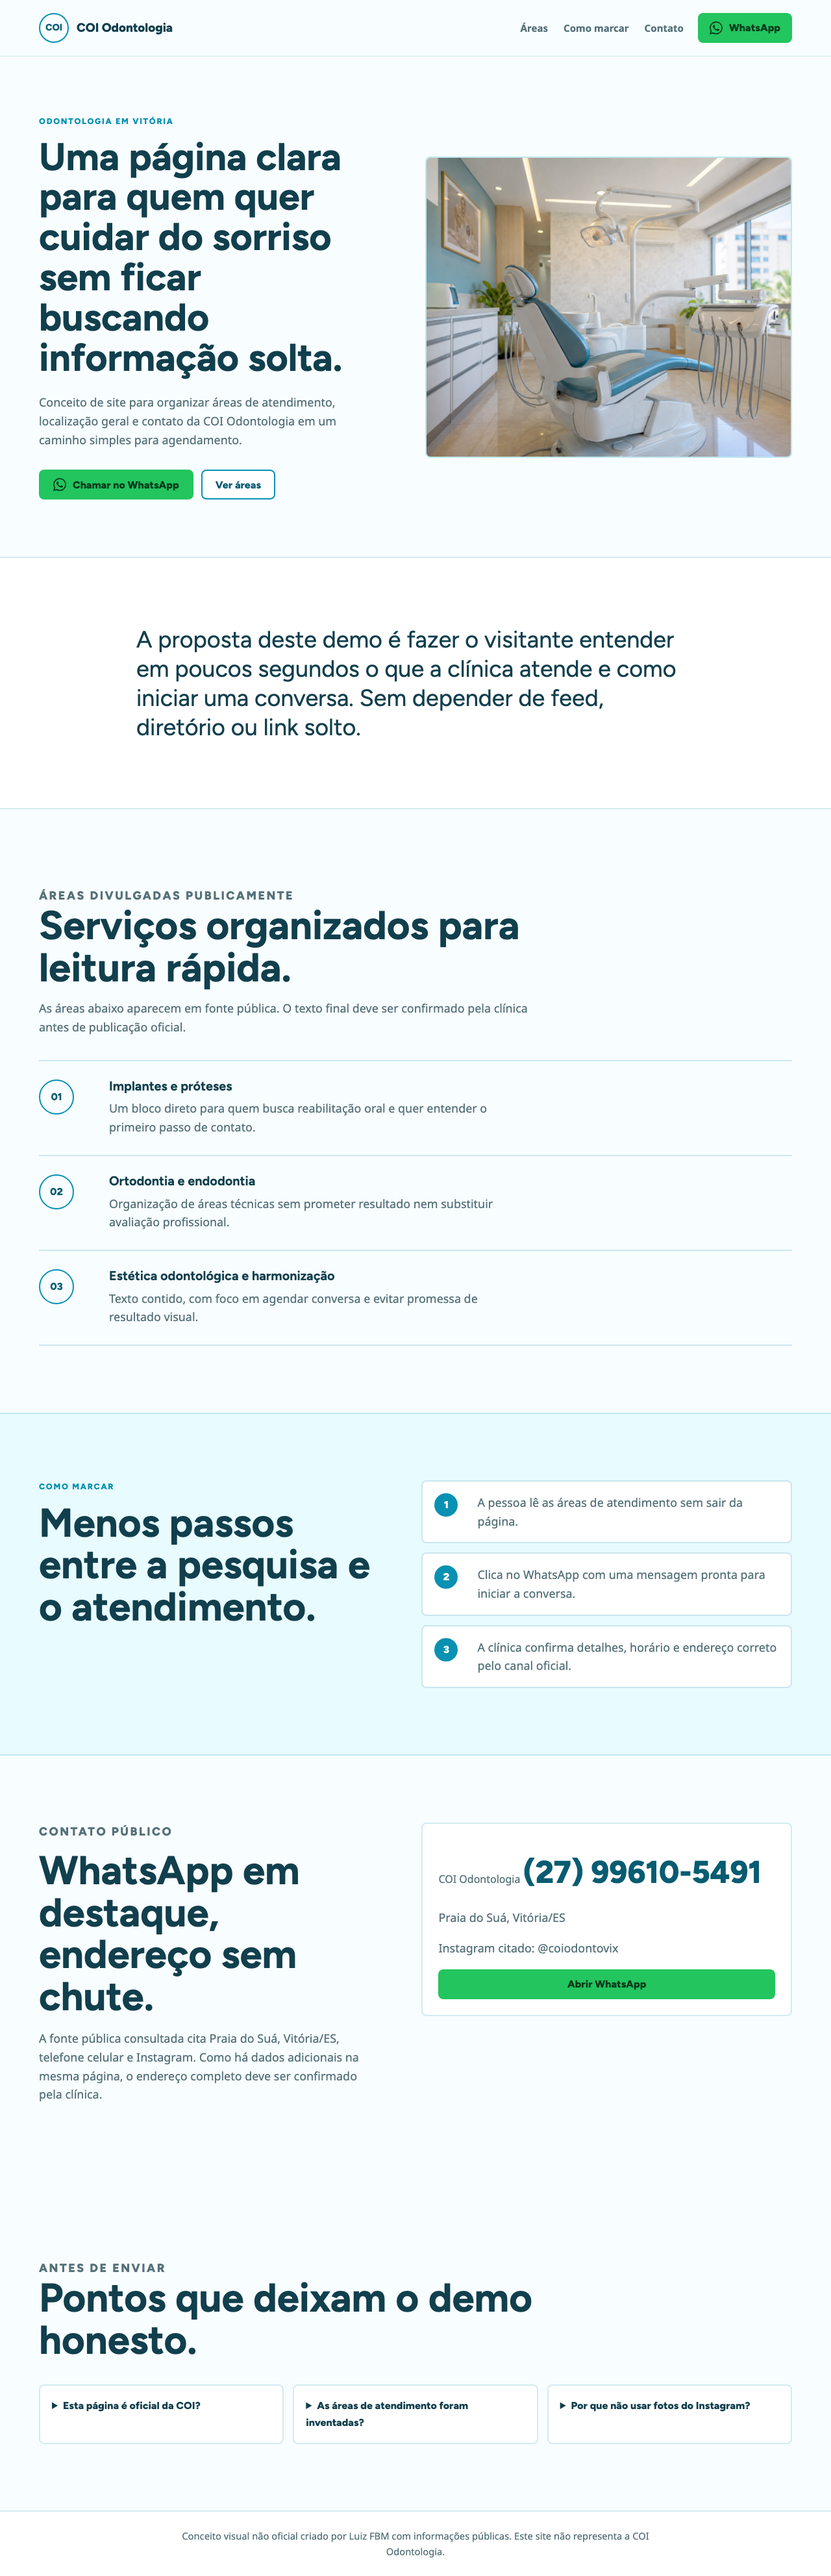
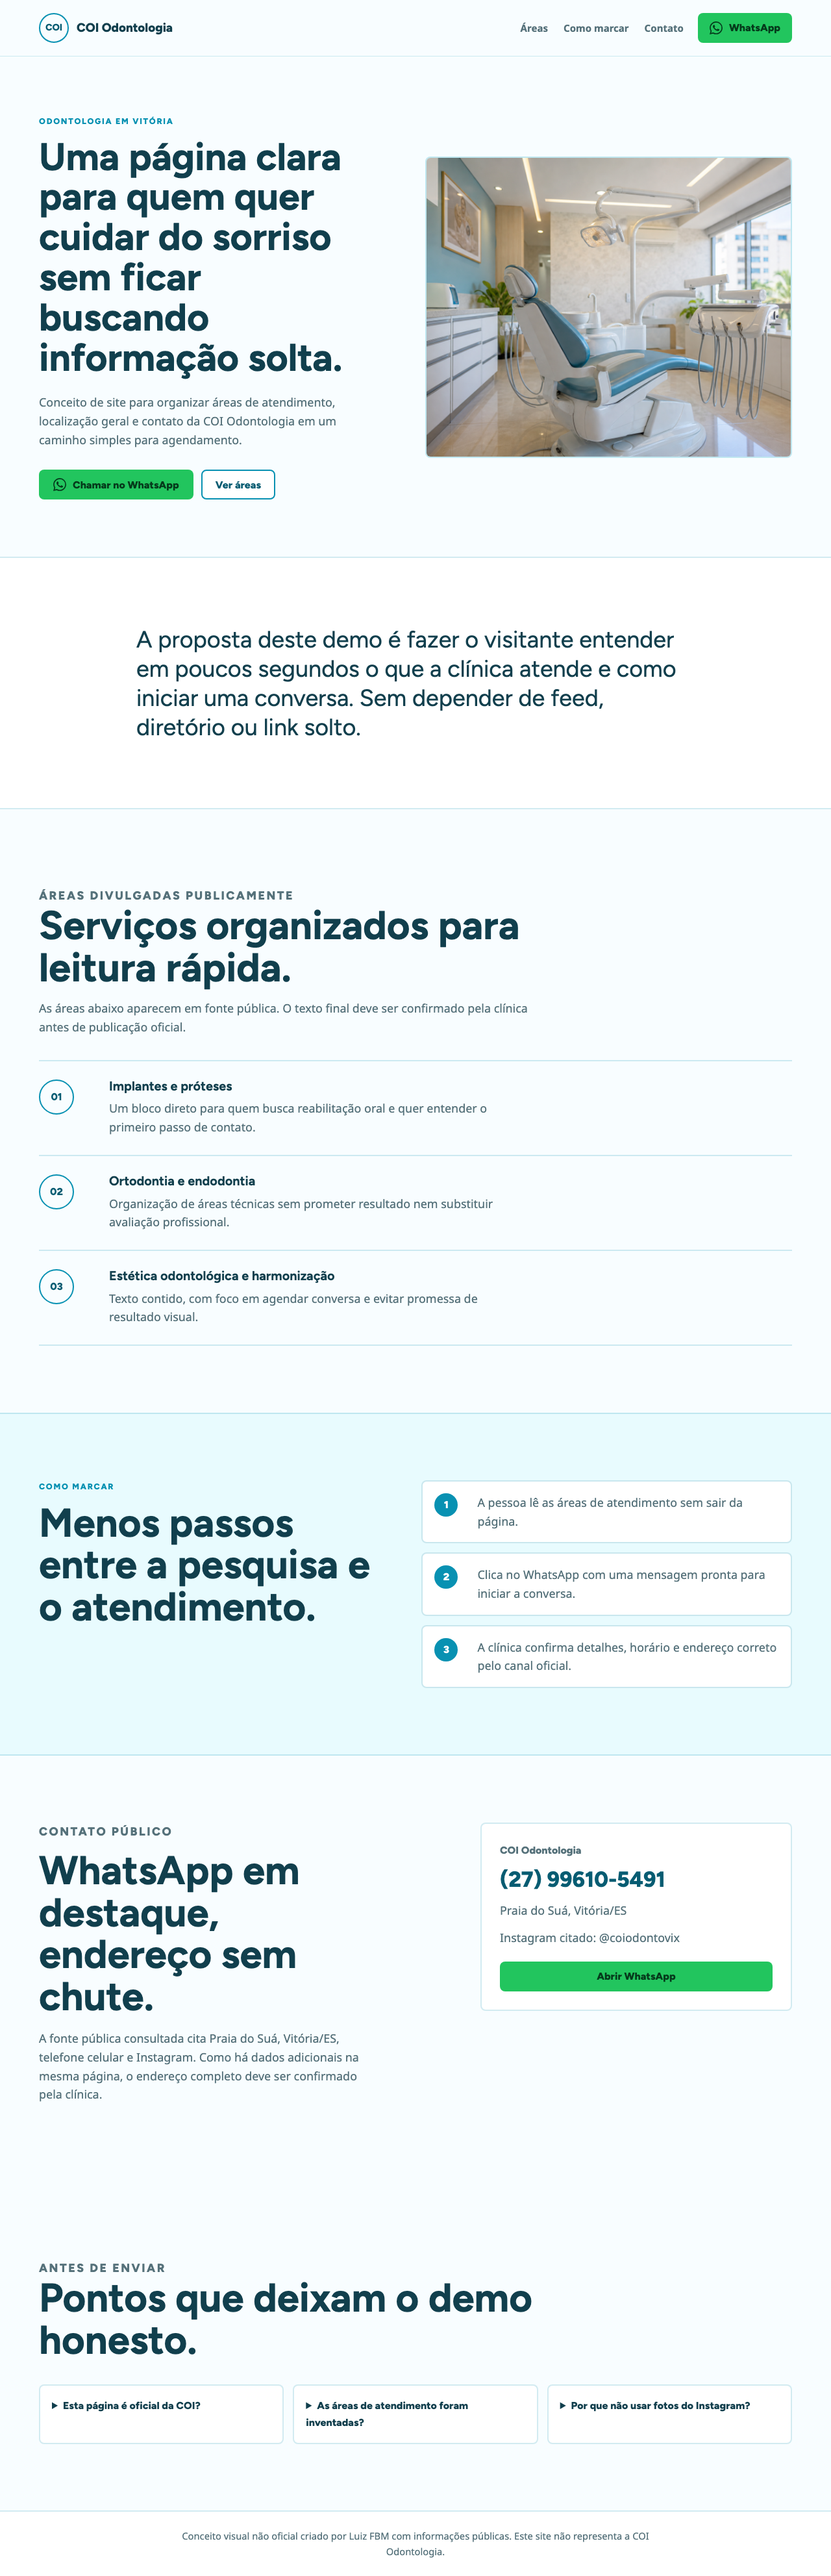
Refine COI contact card

Changed region(s): [[0.5, 0.7133, 0.9375, 0.7753]]

diff --git a/demos/coi-odontologia/styles.css b/demos/coi-odontologia/styles.css
@@ -408,6 +408,8 @@ h3 {
 }
 
 .contact-box {
+  display: grid;
+  gap: 12px;
   padding: 24px;
   border: 2px solid var(--line);
   border-radius: var(--radius);
@@ -415,17 +417,29 @@ h3 {
 }
 
 .contact-box span {
+  display: block;
+  font-family: "Figtree", Arial, sans-serif;
+  font-weight: 800;
   color: var(--muted);
 }
 
 .contact-phone {
-  display: inline-block;
-  margin-top: 12px;
+  display: block;
   color: var(--primary-dark);
   font-family: "Figtree", Arial, sans-serif;
   font-size: clamp(2rem, 4vw, 3rem);
   font-weight: 800;
+  line-height: 1.12;
   text-decoration: none;
+}
+
+.contact-box p {
+  margin: 0;
+  color: var(--muted);
+}
+
+.contact-box .button {
+  margin-top: 8px;
 }
 
 .faq-grid {
@@ -478,6 +492,19 @@ details p {
 :focus-visible {
   outline: 4px solid rgba(34, 197, 94, 0.38);
   outline-offset: 4px;
+}
+
+@media (min-width: 901px) {
+  .contact-box {
+    justify-self: end;
+    width: min(100%, 480px);
+    padding: 28px;
+    gap: 14px;
+  }
+
+  .contact-phone {
+    font-size: clamp(2rem, 2.6vw, 2.35rem);
+  }
 }
 
 @media (max-width: 900px) {
